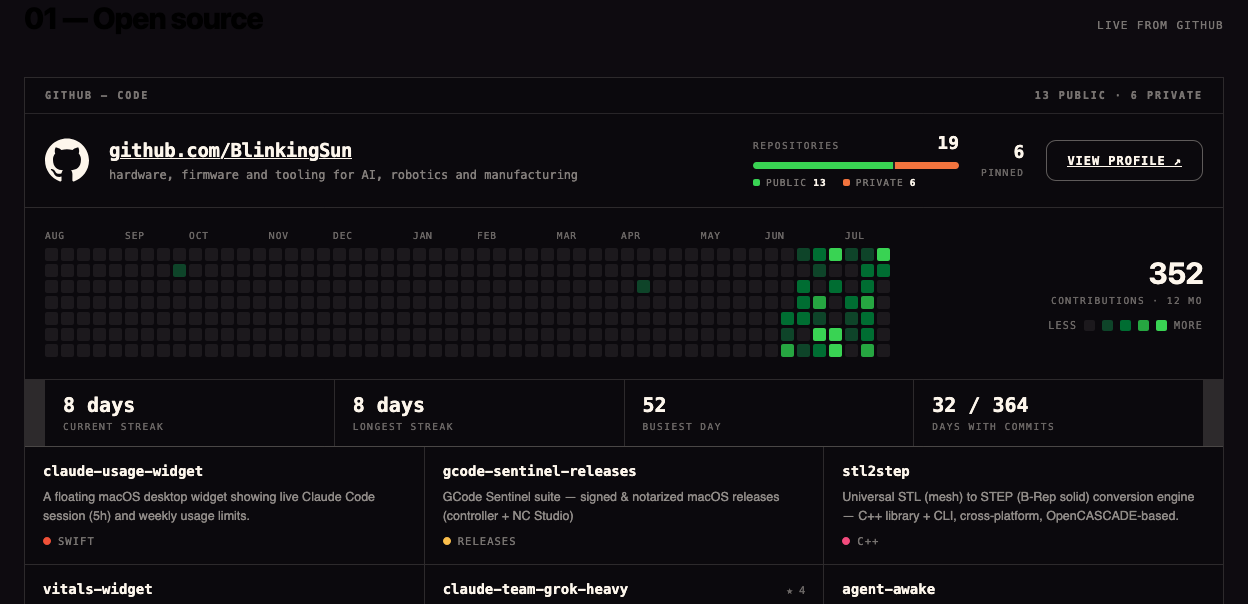
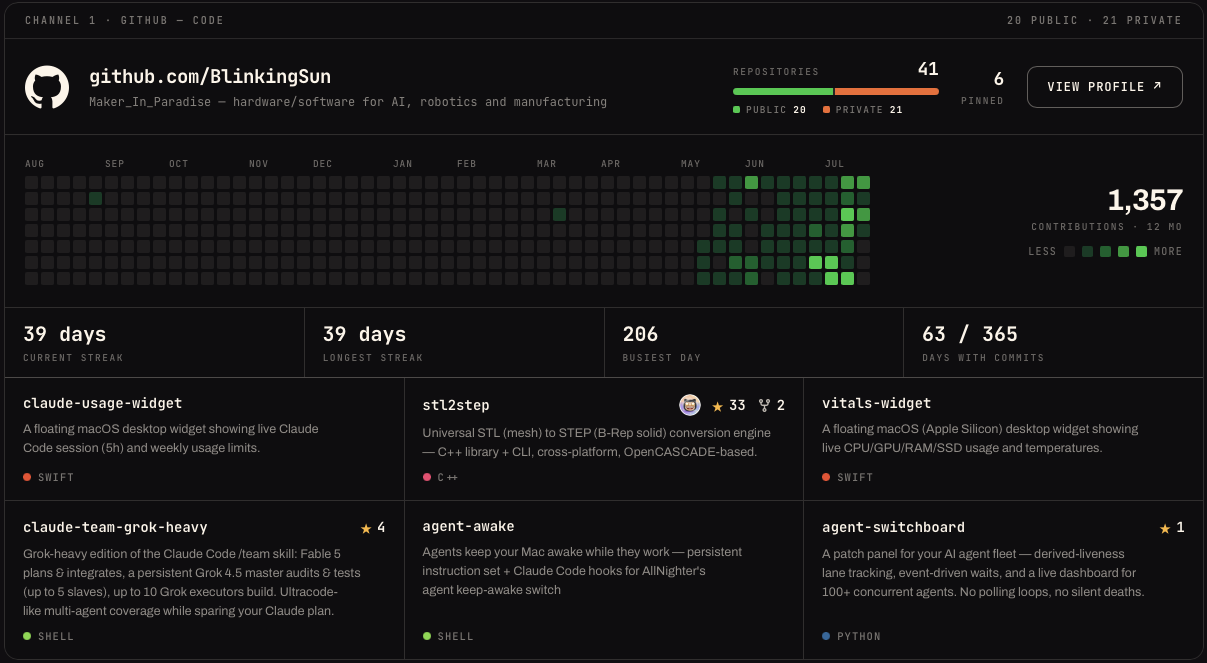
v1.1.0 — star/fork counters, optional achievement badges, agent-neutral docs
Card counters were 10.5px at 40% opacity, which is a number nobody reads. Stars
now match the repo name they sit beside — cream at 600 14px, with the glyph
alone carrying the accent at 1.45em in amber. Fork counts join them, drawn with
the Octicons repo-forked path inlined: script-src 'none' bans <script>, not
<svg>, and an inline glyph costs no request. A zero renders nothing at all, so
an unstarred repo shows a bare name rather than "0".

forks comes from forkCount on the pinnedItems query and is an optional integer
in the schema, so an old data file still validates.

Achievement badges are opt-in via data/achievements.json, keyed by repo name.
GitHub's API exposes achievements nowhere — they are account-level trophies with
no repository field — and their artwork is not ours to redistribute, so the user
points at an image they host. Absent file means no badges.

Docs drop the Claude-specific framing: the skill is plain Markdown and shell,
and works with any agent that can read a skill file and run a command. Repo
renamed to github-web-skill to match.

Claude-Session: https://claude.ai/code/session_01DG5Vdo8RMt77Nvf9615tJA

diff --git a/README.md b/README.md
@@ -1,13 +1,16 @@
 # github-web
 
-A live GitHub channel for your website — contribution heatmap, streak and activity stats,
-a public/private repository split bar, and your pinned repo cards.
+**Put your GitHub stats on your own website, and let your coding agent keep them current on
+a schedule.** Contribution heatmap, streaks and activity stats, a public/private repository
+split bar, and your pinned repo cards with live star and fork counts.
 
 ![The section, rendered](docs/screenshot.png)
 
-Packaged as a **Claude Code skill**: `/github-web` walks you through GitHub API access,
-installs the section into your page, and sets up the automatic refresh on whatever machine
-you have. It also works fine as a plain set of scripts — see [Without Claude](#without-claude).
+Packaged as an **agent skill** — a `SKILL.md` your agent reads and follows. `/github-web`
+walks you through GitHub API access, installs the section into your page, and sets up the
+automatic refresh on whatever machine you have. Works with Claude Code, Cursor, the Grok
+CLI, or anything else that can read a skill file and run a shell. It is also a plain set of
+scripts — see [Without an agent](#without-an-agent).
 
 ---
 
@@ -38,6 +41,8 @@ own, or GitHub Actions for free — the package ships templates for both.
 | Busiest day, days with commits | derived |
 | Repository split bar | public vs private; both widths derived from the counts, never authored |
 | Pinned repo cards | the six pinned on your profile, with language dot + description |
+| Star and fork counts | sized to match the repo name; a zero renders nothing at all |
+| Achievement badges *(optional)* | your own image, per repo — see [Achievements](#achievements) |
 | Recent pushes *(optional)* | last three repos by push time, with relative age. Private ones are shown but not linked — the URL 404s for visitors |
 
 Desktop and mobile variants are both supported (`data-gh-view="desktop"` / `"mobile"`);
@@ -47,20 +52,24 @@ a page can carry either or both.
 
 ## Install
 
-### As a Claude Code skill
+### As an agent skill
 
 ```bash
-git clone https://github.com/BlinkingSun/claude-github-web-skill.git \
+git clone https://github.com/BlinkingSun/github-web-skill.git \
   ~/.claude/skills/github-web
 ```
 
 Then run `/github-web` and answer the questions. It will ask where your site is, how it
 publishes, and which machine is always on, then do the rest with you.
 
-### Without Claude
+Other agents keep their skills elsewhere — Cursor and the Grok CLI can both be pointed at
+the same directory. The skill itself is plain Markdown and shell; nothing in it is
+Claude-specific.
+
+### Without an agent
 
 ```bash
-git clone https://github.com/BlinkingSun/claude-github-web-skill.git github-web
+git clone https://github.com/BlinkingSun/github-web-skill.git github-web
 cd github-web
 
 # 1. paste assets/section.html into your page, assets/section.css into your stylesheet
@@ -78,6 +87,28 @@ way.
 
 ---
 
+## Achievements
+
+GitHub's API exposes profile achievements **nowhere** — they are account-level trophies,
+not repository fields — and their artwork is not ours to redistribute. So badges are opt-in
+and you supply the image.
+
+Create `data/achievements.json`, keyed by repository name:
+
+```json
+{
+  "my-repo": { "src": "/assets/achievements/starstruck.png", "label": "Starstruck" }
+}
+```
+
+`src` is used verbatim as the `<img src>`, so host the file with your site. The badge is
+drawn at 22px on desktop cards and 18px on mobile, circular. No file means no badges, which
+is the default.
+
+See [reference/achievements.example.json](reference/achievements.example.json).
+
+---
+
 ## Requirements
 
 - **Node 18+** (uses the built-in `fetch`)
@@ -87,7 +118,8 @@ way.
 
 If your site sets a `Content-Security-Policy`, the renderer emits inline-styled markup, so
 you need `style-src ... 'unsafe-inline'` or a nonce. Nothing else needs changing — in
-particular `script-src 'none'` is fine, which is the whole point.
+particular `script-src 'none'` is fine, which is the whole point. The fork glyph is an
+inline `<svg>` for the same reason.
 
 ---
 
@@ -137,7 +169,8 @@ scripts/sync.sh              fetch -> validate -> render -> (publish)
 publish.sh.example           your deploy step; copy and edit
 scheduling/                  launchd, systemd, cron, Task Scheduler, GitHub Actions
 schema/                      JSON Schema for the data file
-reference/                   a sample data file, so you can render before you have a token
+reference/                   sample data + an achievements example, so you can render
+                             before you have a token
 docs/                        API setup, troubleshooting
 ```
 
@@ -154,9 +187,17 @@ found in production, including:
 - the streak counting the in-progress UTC day, reporting `0` while a streak was running
 - a missing data file producing an `ENOENT` stack trace instead of telling you to run the
   fetch first
+- card counters rendered at 10.5px and 40% opacity, which is a number nobody reads — stars
+  and forks now match the repo name they sit beside
+
+Companion skill: **[thingiverse-web](https://github.com/BlinkingSun/thingiverse-web-skill)**
+— the same idea for your Thingiverse designs, downloads and thumbnails.
 
 ---
 
 ## Licence
 
 MIT. See [LICENSE](LICENSE).
+
+The fork glyph is [Octicons](https://github.com/primer/octicons) (MIT, © GitHub Inc.),
+inlined as a path.

diff --git a/SKILL.md b/SKILL.md
@@ -1,6 +1,6 @@
 ---
 name: github-web
-description: Add a live GitHub contribution section to a website — a 53×7 contribution heatmap, streak and activity stats, a public/private repository split bar, and pinned repository cards, all rendered from the real GitHub API into static HTML. Guides the user through GitHub API access, installing the section into their page, and setting up an automatic refresh on a server (launchd, systemd, cron, Task Scheduler or GitHub Actions). Use when the user types /github-web, or asks to put their GitHub activity, contribution graph, commit heatmap, streak, or pinned repos on their website.
+description: Add your GitHub stats to your own website and keep them current on a schedule — a 53×7 contribution heatmap, streak and activity stats, a public/private repository split bar, and pinned repository cards with live star and fork counts, all rendered from the real GitHub API into static HTML. Guides the user through GitHub API access, installing the section into their page, and setting up an automatic refresh on a server (launchd, systemd, cron, Task Scheduler or GitHub Actions). Use when the user types /github-web, or asks to put their GitHub activity, contribution graph, commit heatmap, streak, or pinned repos on their website.
 ---
 
 # github-web
@@ -25,6 +25,8 @@ marked-up regions in place.
 | Busiest day, days with commits | derived |
 | Repository split bar | public vs private, widths derived from the counts |
 | Pinned repo cards | the six pinned on the profile, with language dot and description |
+| Star and fork counts | on each card, sized to match the repo name. A zero renders nothing |
+| Achievement badges *(optional)* | a per-repo image the user hosts — see Phase 3 |
 | Recent pushes *(optional)* | last three repos by push time, with relative age |
 
 Two viewports are supported: `data-gh-view="desktop"` and `="mobile"`. A page may carry
@@ -122,6 +124,17 @@ If the total looks too low, it is almost always the profile setting above.
 4. Fonts: the section asks for `JetBrains Mono` and a sans stack. It degrades to the
    system monospace without them. If they want the exact look, have them self-host
    JetBrains Mono rather than adding a font CDN, which most CSPs block.
+5. **Achievement badges are optional and opt-in.** GitHub's API exposes profile
+   achievements nowhere — they are account-level trophies with no repository field — and
+   GitHub's own artwork is not redistributable. If the user wants one, they host the image
+   with their site and write `data/achievements.json`:
+
+   ```json
+   { "their-repo": { "src": "/assets/achievements/starstruck.png", "label": "Starstruck" } }
+   ```
+
+   `src` is used verbatim as the `<img src>`. No file means no badges — do not invent one,
+   and do not copy GitHub's badge art into their repo for them.
 
 **The rules to tell them, in these words:**
 
